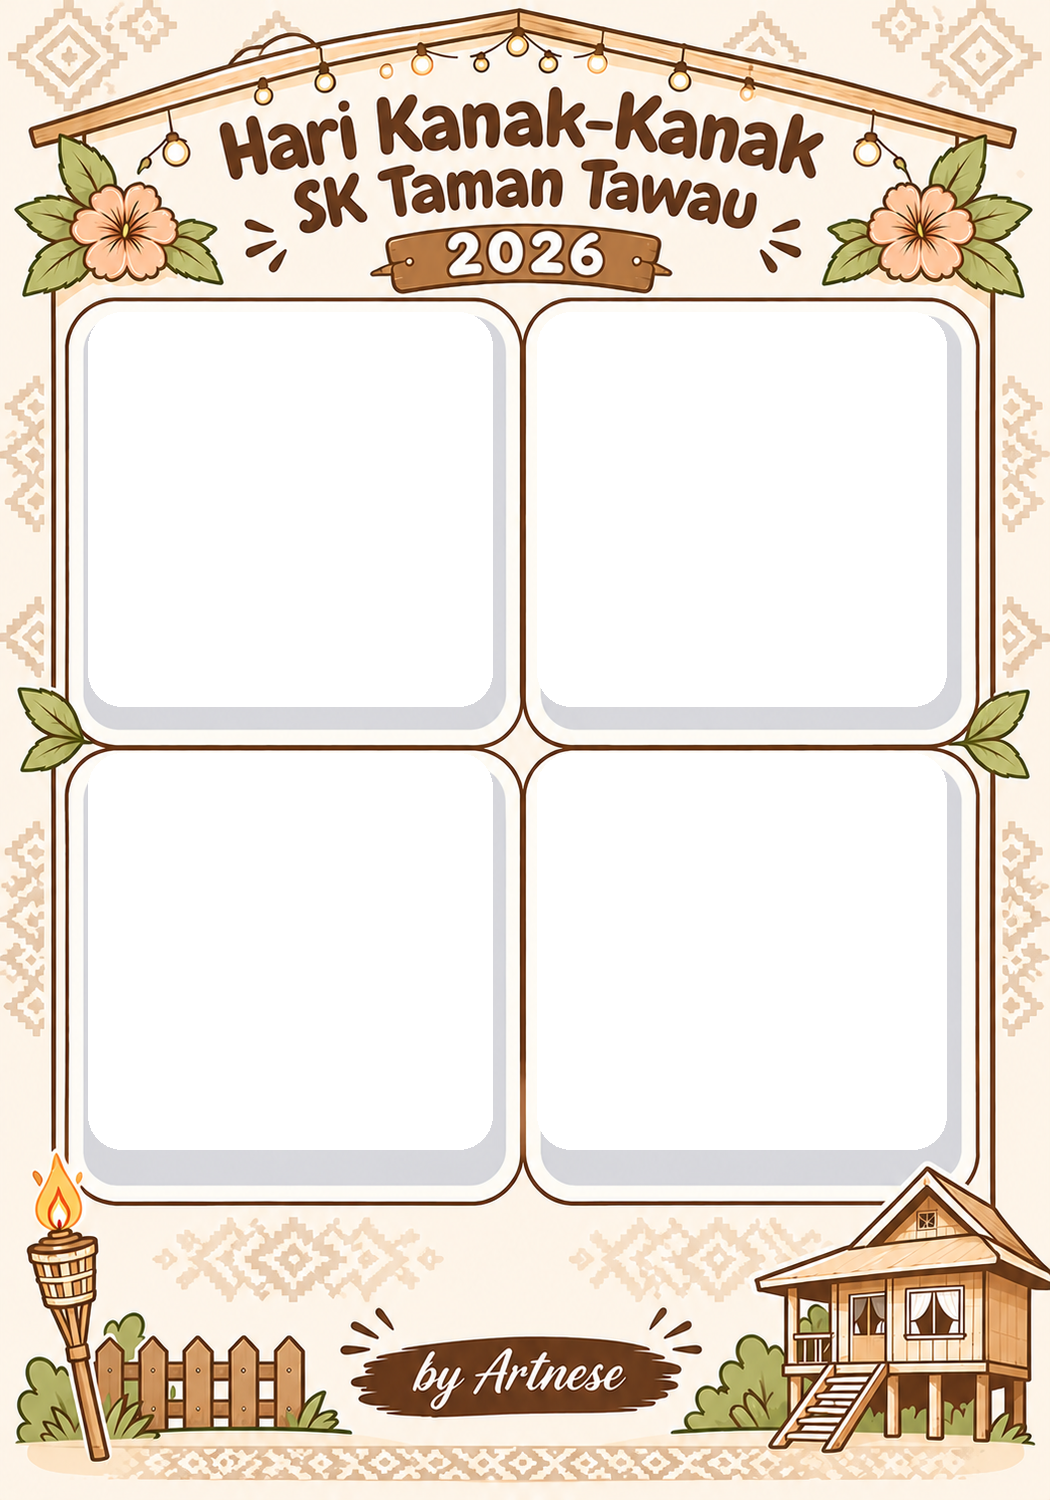
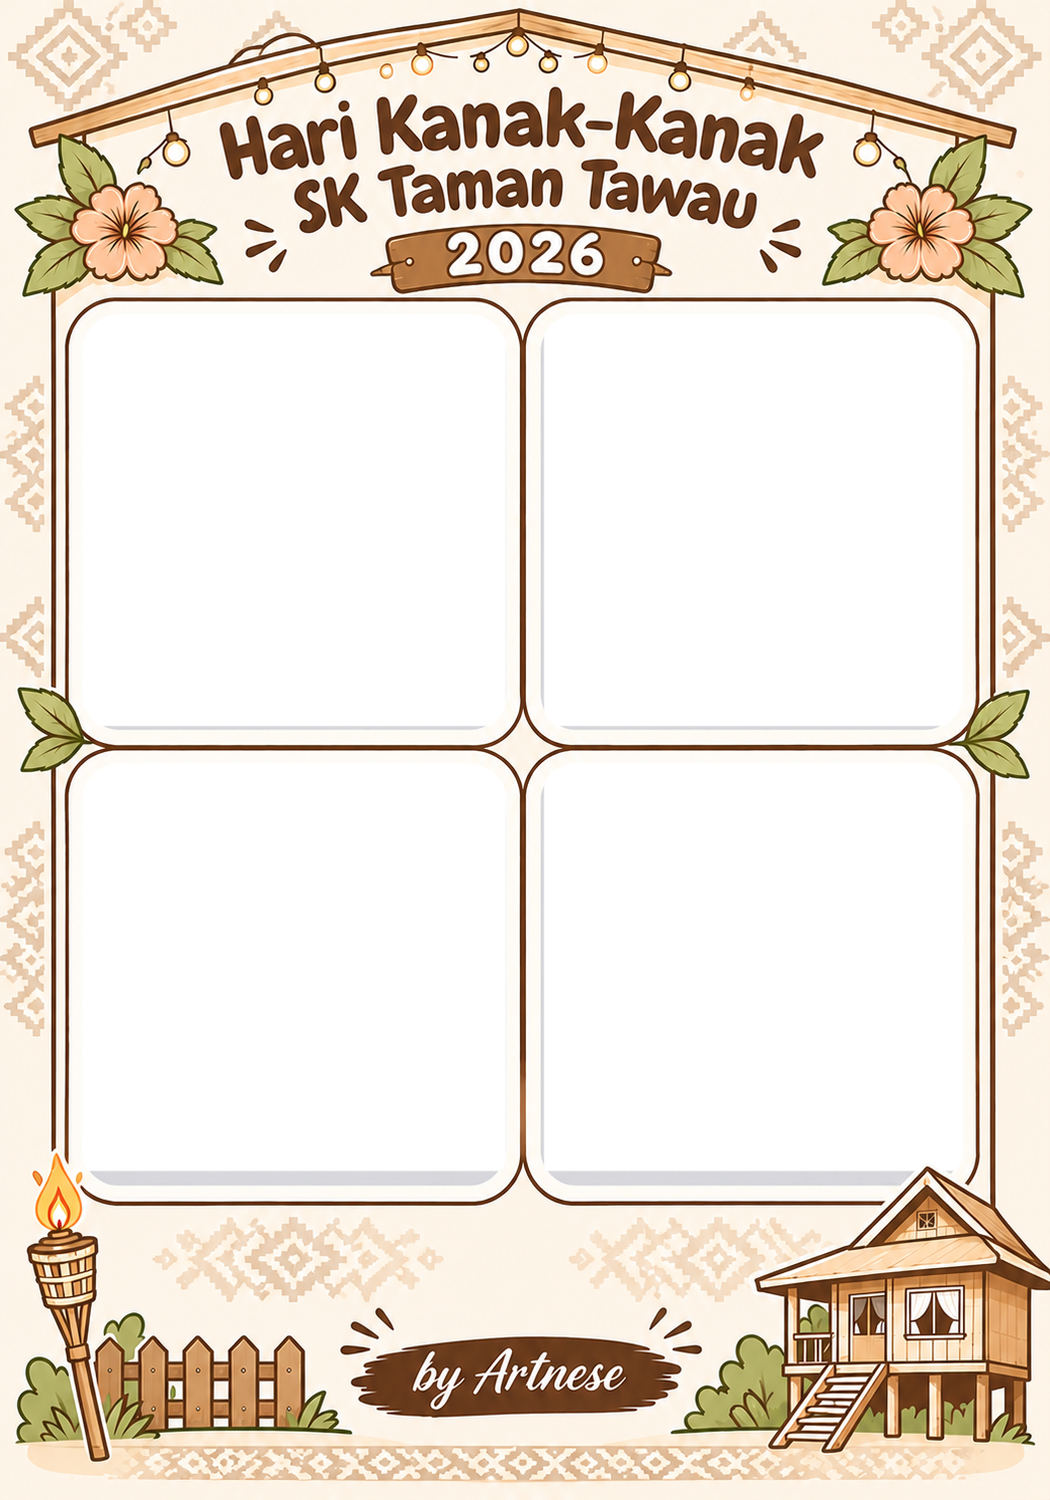
Add files via upload

diff --git a/index.html b/index.html
@@ -1,19 +1,23 @@
-<!doctype html><html lang="ms"><head><meta charset="utf-8"><meta name="viewport" content="width=device-width,initial-scale=1,viewport-fit=cover"><title>SKTT Photobooth • by Artnese</title><style>
-*{box-sizing:border-box}body{margin:0;background:#fffaf4;color:#553b2a;font:16px system-ui,-apple-system,sans-serif;text-align:center;padding:16px}.app{max-width:540px;margin:auto}h1{font-size:1.5rem;margin:8px 0}p{line-height:1.45}video{display:block;width:min(100%,390px);aspect-ratio:4/3;object-fit:cover;transform:scaleX(-1);background:#493c31;border:4px solid #ddc3a4;border-radius:14px;margin:12px auto}#count{font-size:64px;font-weight:900;min-height:74px;color:#a45d3e}#status{min-height:42px;font-weight:650}.buttons{display:flex;gap:9px;flex-wrap:wrap;justify-content:center;margin:14px 0}button{border:0;border-radius:13px;padding:13px 16px;background:#59836a;color:white;font:700 15px system-ui;cursor:pointer}button.alt{background:#936d4c}button:disabled{opacity:.45}#preview{display:block;width:min(100%,245px);height:auto;margin:14px auto;box-shadow:0 4px 18px #0002}.hint{font-size:12px;color:#806c5a}</style></head><body><main class="app"><h1>🌺 Kampung Photobooth</h1><p>Hari Kanak-Kanak SK Taman Tawau 2026<br><strong>by Artnese</strong></p><video id="camera" autoplay playsinline muted></video><div id="count"></div><p id="status">Tekan BUKA KAMERA untuk mula.</p><div class="buttons"><button id="open">BUKA KAMERA</button><button id="start" disabled>START • 4 GAMBAR</button></div><canvas id="preview" width="1050" height="1500"></canvas><div class="buttons"><button id="save" disabled>SAVE PHOTO</button><button id="reset" class="alt">NEW SESSION</button></div><p class="hint">4 gambar (2 × 2) • 3.5 × 5 inci (89 × 127 mm) • RM3<br>Selepas SAVE, pilih saiz kertas 3.5 × 5 inci dalam aplikasi Epson.</p></main><script>
+<!doctype html>
+<html lang="ms"><head><meta charset="utf-8"><meta name="viewport" content="width=device-width, initial-scale=1, viewport-fit=cover"><title>SKTT Photobooth — by Artnese</title>
+<style>
+*{box-sizing:border-box}body{margin:0;background:#fffaf4;color:#553b2a;font:16px -apple-system,BlinkMacSystemFont,system-ui,sans-serif;text-align:center;padding:16px}.app{max-width:560px;margin:auto}h1{font-size:1.5rem;margin:8px 0}p{line-height:1.45}video{display:block;width:min(100%,390px);aspect-ratio:4/3;object-fit:cover;transform:scaleX(-1);background:#493c31;border:4px solid #ddc3a4;border-radius:14px;margin:12px auto}#count{font-size:64px;font-weight:900;min-height:74px;color:#a45d3e}#status{min-height:42px;font-weight:650}.buttons{display:flex;gap:9px;flex-wrap:wrap;justify-content:center;margin:14px 0}button{border:0;border-radius:13px;padding:13px 16px;background:#59836a;color:white;font:700 15px system-ui;cursor:pointer}button.alt{background:#936d4c}button:disabled{opacity:.45}#preview{display:block;width:min(100%,300px);height:auto;margin:14px auto;box-shadow:0 4px 18px #0002}.hint{font-size:12px;color:#806c5a}</style></head>
+<body><main class="app"><h1>🌺 Kampung Photobooth</h1><p>Hari Kanak-Kanak SK Taman Tawau 2026<br><strong>by Artnese</strong></p><video id="camera" autoplay playsinline muted></video><div id="count"></div><p id="status">Tekan BUKA KAMERA untuk mula.</p><div class="buttons"><button id="open">BUKA KAMERA</button><button id="start" disabled>START • 4 GAMBAR</button></div><canvas id="preview" width="1050" height="1500"></canvas><div class="buttons"><button id="save" disabled>SAVE PHOTO</button><button id="reset" class="alt">NEW SESSION</button></div><p class="hint">4 gambar (2 × 2) • 3.5 × 5 inci (89 × 127 mm) • RM3<br>Selepas SAVE, pilih saiz kertas 3.5 × 5 inci dalam aplikasi Epson.</p></main>
+<script>
 const el=id=>document.getElementById(id),video=el('camera'),canvas=el('preview'),ctx=canvas.getContext('2d'),frame=new Image();
-const slots=[[88,312,404,394],[537,312,409,394],[88,753,404,396],[537,753,409,396]];
-let stream=null,photos=[],busy=false,ready=false,frameReady=false;const wait=ms=>new Promise(r=>setTimeout(r,ms));
+// These four coordinates correspond to the transparent windows in kampung-frame.png.
+const slots=[[76,305,429,420],[545,305,422,420],[76,745,429,425],[545,745,422,425]];
+let stream=null,photos=[],busy=false,ready=false,frameReady=false;
+const wait=ms=>new Promise(resolve=>setTimeout(resolve,ms));
 function msg(s){el('status').textContent=s}
 function cover(img,x,y,w,h){const iw=img.width,ih=img.height,r=Math.max(w/iw,h/ih),sw=w/r,sh=h/r;ctx.drawImage(img,(iw-sw)/2,(ih-sh)/2,sw,sh,x,y,w,h)}
-function rounded(x,y,w,h,r){ctx.beginPath();ctx.roundRect(x,y,w,h,r)}
-function draw(){ctx.fillStyle='#fffaf5';ctx.fillRect(0,0,1050,1500);slots.forEach(([x,y,w,h],i)=>{ctx.save();rounded(x,y,w,h,34);ctx.clip();if(photos[i])cover(photos[i],x,y,w,h);else{ctx.fillStyle='#e9e8e8';ctx.fillRect(x,y,w,h)}ctx.restore()});if(frameReady)ctx.drawImage(frame,0,0,1050,1500)}
-frame.onload=()=>{frameReady=true;draw()};frame.onerror=()=>msg('Frame tiada. Pastikan kampung-frame.png dimuat naik bersama index.html.');frame.src='kampung-frame.png';draw();
-async function openCamera(){try{if(stream)stream.getTracks().forEach(t=>t.stop());stream=await navigator.mediaDevices.getUserMedia({video:{facingMode:'user',width:{ideal:1280},height:{ideal:960}},audio:false});video.srcObject=stream;await video.play();el('start').disabled=false;msg('Kamera sedia. Tekan START.')}catch(e){msg('Benarkan Camera di Safari. '+e.message)}}
+function draw(){ctx.fillStyle='#fffaf4';ctx.fillRect(0,0,1050,1500);slots.forEach(([x,y,w,h],i)=>{if(photos[i])cover(photos[i],x,y,w,h);else{ctx.fillStyle='#d8d8db';ctx.fillRect(x,y,w,h)}});if(frameReady)ctx.drawImage(frame,0,0,1050,1500)}
+frame.onload=()=>{frameReady=true;draw()};frame.onerror=()=>msg('Frame gagal dimuatkan. Semak kampung-frame.png dalam GitHub.');frame.src='kampung-frame.png?v=8';draw();
+async function openCamera(){try{if(stream)stream.getTracks().forEach(t=>t.stop());stream=await navigator.mediaDevices.getUserMedia({video:{facingMode:'user',width:{ideal:1280},height:{ideal:960}},audio:false});video.srcObject=stream;await video.play();el('start').disabled=false;msg('Kamera sedia. Tekan START.')}catch(e){msg('Benarkan akses kamera di Safari. '+e.message)}}
 function snap(){const c=document.createElement('canvas');c.width=video.videoWidth;c.height=video.videoHeight;const g=c.getContext('2d');g.translate(c.width,0);g.scale(-1,1);g.drawImage(video,0,0);return c}
 async function countdown(){for(let i=3;i>=1;i--){el('count').textContent=i;await wait(950)}el('count').textContent='📸';await wait(250);el('count').textContent=''}
 async function start(){if(busy||!stream||!frameReady)return;busy=true;ready=false;photos=[];el('start').disabled=true;el('save').disabled=true;draw();try{for(let i=0;i<4;i++){msg('Gambar '+(i+1)+' daripada 4');await countdown();photos.push(snap());draw();await wait(350)}ready=true;el('save').disabled=false;msg('Siap! Tekan SAVE PHOTO.')}catch(e){msg('Ralat kamera: '+e.message)}finally{busy=false;el('start').disabled=false}}
-async function save(){if(!ready)return;canvas.toBlob(async blob=>{if(!blob){msg('Gagal menyimpan.');return}const filename='SKTT-Artnese-'+Date.now()+'.png';const file=new File([blob],filename,{type:'image/png'});try{if(navigator.canShare&&navigator.canShare({files:[file]})){await navigator.share({files:[file]});msg('Pilih Save Image atau Save to Files pada menu Share.');return}}catch(e){if(e.name==='AbortError'){msg('Menu Share ditutup. Cuba SAVE semula.');return}}
-const url=URL.createObjectURL(blob),a=document.createElement('a');a.href=url;a.download=filename;document.body.append(a);a.click();a.remove();setTimeout(()=>URL.revokeObjectURL(url),30000);msg('PNG disediakan. Jika gambar terbuka, tekan Share → Save Image.')},'image/png')}
+async function save(){if(!ready)return;canvas.toBlob(async blob=>{if(!blob){msg('Gagal menyimpan.');return}const filename='SKTT-Artnese-'+Date.now()+'.png';const file=new File([blob],filename,{type:'image/png'});try{if(navigator.canShare&&navigator.canShare({files:[file]})){await navigator.share({files:[file]});msg('Pilih Save Image atau Save to Files daripada menu Share.');return}}catch(e){if(e.name==='AbortError'){msg('Menu Share ditutup. Tekan SAVE untuk cuba semula.');return}}const url=URL.createObjectURL(blob),a=document.createElement('a');a.href=url;a.download=filename;document.body.append(a);a.click();a.remove();setTimeout(()=>URL.revokeObjectURL(url),30000);msg('Fail PNG disediakan. Jika gambar terbuka, tekan Share → Save Image.')},'image/png')}
 function reset(){if(busy)return;photos=[];ready=false;draw();el('save').disabled=true;el('count').textContent='';msg('Sesi baharu. Tekan START untuk 4 gambar.')}
 el('open').onclick=openCamera;el('start').onclick=start;el('save').onclick=save;el('reset').onclick=reset;
 </script></body></html>
